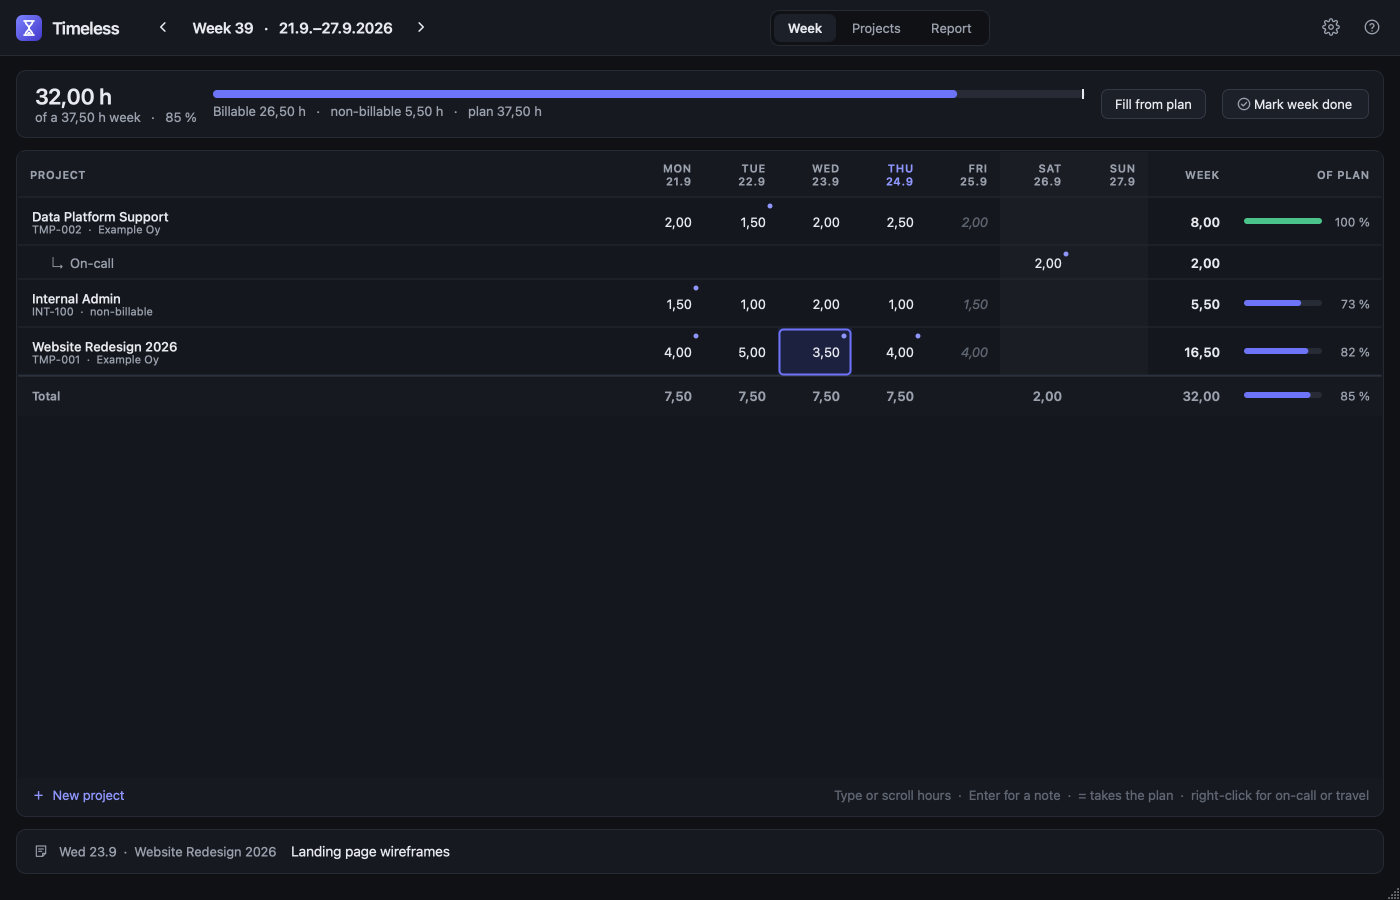
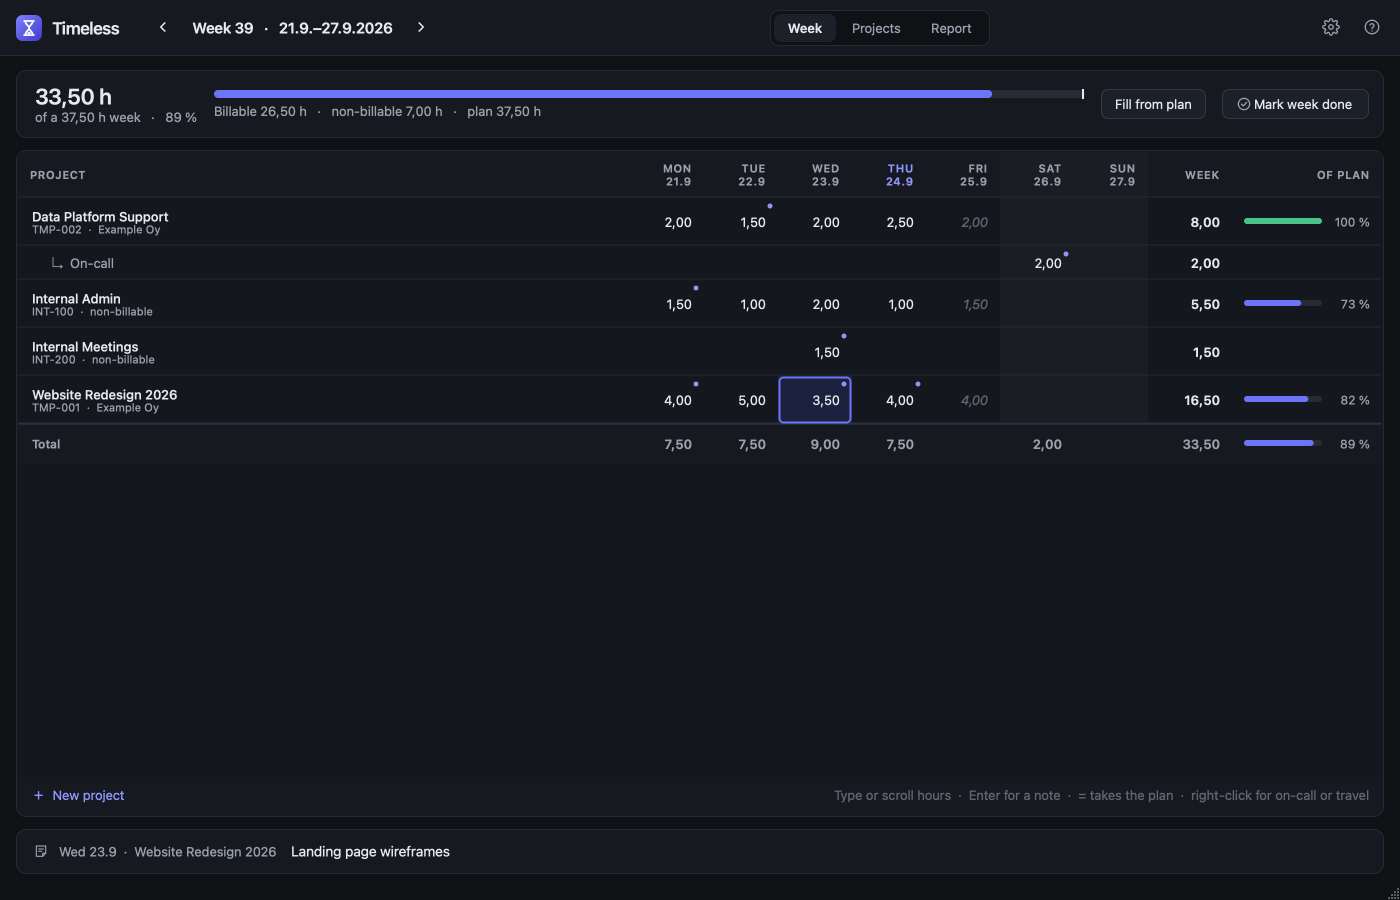
Show a project with no plan in the README screenshot
The demo week now has an Internal Meetings project with 1,5 h of
all-hands and a blank Of plan.

diff --git a/README.md b/README.md
@@ -4,7 +4,7 @@ A calm, personal timesheet. One week at a time: type the hours, write a
 line about the day, and see at a glance how the week sits against your
 plan and a full week. Nothing to save, nothing to submit.
 
-![Timeless: the week view, with the plan shown faintly in empty days, note dots, an on-call row and progress against plan](docs/screenshot.png)
+![Timeless: the week view, with the plan shown faintly in empty days, note dots, an on-call row, an unplanned meetings project and progress against plan](docs/screenshot.png)
 
 Built with Python, PySide6 (Qt) and SQLite. Everything stays on your
 own computer.
